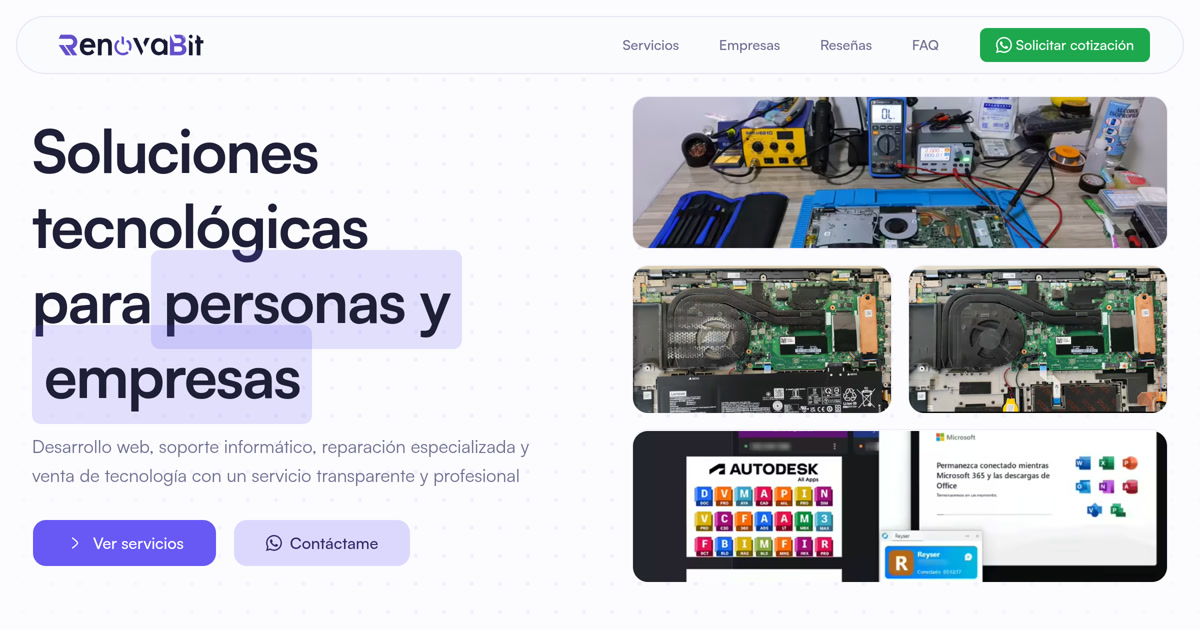
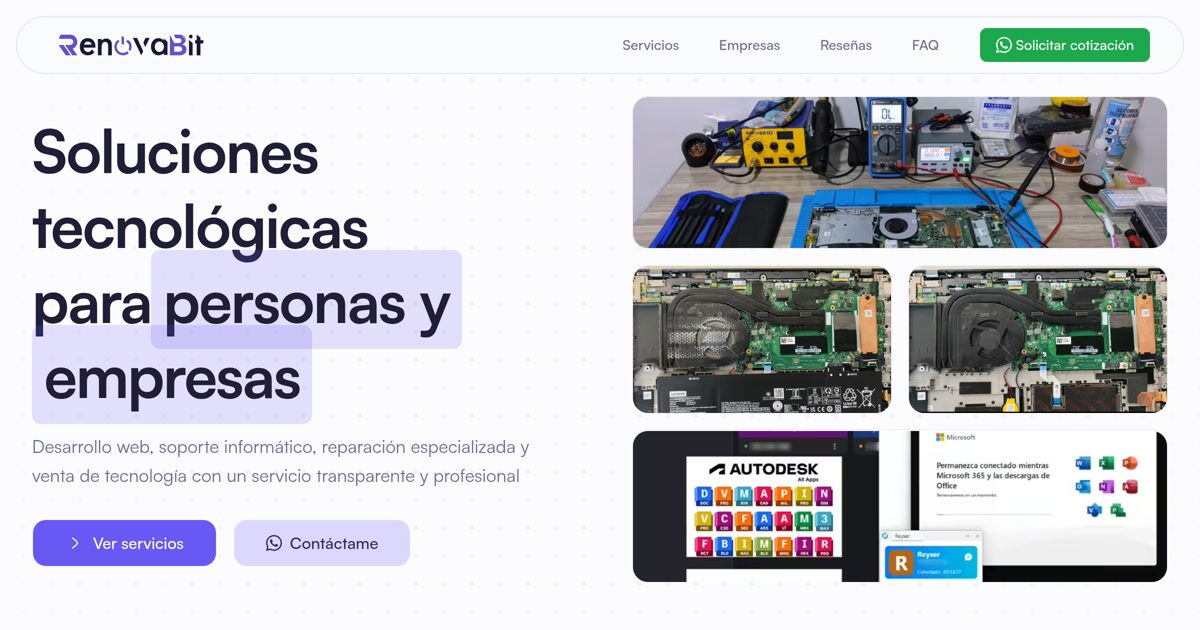
feat(seo,content): improve content, SEO metadata, and security headers
- Add security headers (X-Frame-Options, HSTS, Permissions-Policy)
- Add LLMS txt files for better LLM indexing
- Add hreflang tags for Spanish (Peru)
- Add structured review data with actual customer testimonials
- Rewrite hero, CTA, about, services, and empresas copy for clarity
- Add 4 new FAQ items covering pricing and common issues
- Fix typo: Microeletrónica → Microelectrónica
- Adjust WhatsApp button color and timeline step opacity
- Update site meta description

diff --git a/src/constants.ts b/src/constants.ts
@@ -2,7 +2,7 @@ export const SITE = {
 	name: "RenovaBit",
 	url: "https://renovabit.com",
 	description:
-		"Servicio técnico de laptops y PCs en Arequipa. Reparación a domicilio, mantenimiento preventivo, desarrollo web y venta de componentes. Diagnóstico gratuito.",
+		"Reparación de laptops y PCs en Arequipa a domicilio. Mantenimiento, desarrollo web y venta de componentes. Diagnóstico sin costo.",
 	author: "RenovaBit",
 	locale: "es_PE",
 	ogImage: "/og-default.jpg",
@@ -144,5 +144,25 @@ export const FAQ_ITEMS = [
 		question: "¿También desarrollan proyectos de software?",
 		answer:
 			"Sí. El desarrollo de software es una de nuestras principales líneas de trabajo. Creamos landing pages, sitios corporativos, catálogos digitales y soluciones web modernas enfocadas en rendimiento, diseño y facilidad de administración.",
+	},
+	{
+		question: "¿Cuánto cuesta reparar una laptop en Arequipa?",
+		answer:
+			"El costo depende del tipo de falla y los repuestos necesarios. El diagnóstico es gratuito y te entregamos una cotización clara antes de iniciar cualquier reparación. Cambios de pantalla, teclados, mantenimiento y reparación de placa tienen precios distintos.",
+	},
+	{
+		question: "¿Qué hacer si mi laptop no enciende?",
+		answer:
+			"No fuerces el encendido repetidamente. El problema puede ser la batería, el cargador, la BIOS o la placa madre. Escríbenos por WhatsApp para una evaluación inicial. En muchos casos el diagnóstico nos permite saber si la reparación es viable antes de que traigas el equipo.",
+	},
+	{
+		question: "¿Cuánto cuesta formatear o instalar Windows en Arequipa?",
+		answer:
+			"El precio depende de si necesitas respaldo de información, instalación de programas específicos y configuración adicional. Te damos un precio fijo antes de empezar, sin cargos ocultos.",
+	},
+	{
+		question: "¿Hacen mantenimiento de computadoras para empresas?",
+		answer:
+			"Sí. Atendemos flotas de equipos en empresas de Arequipa. Realizamos mantenimiento preventivo y correctivo, entregamos informes técnicos, evidencias fotográficas y factura electrónica para tu contabilidad.",
 	},
 ] as const;